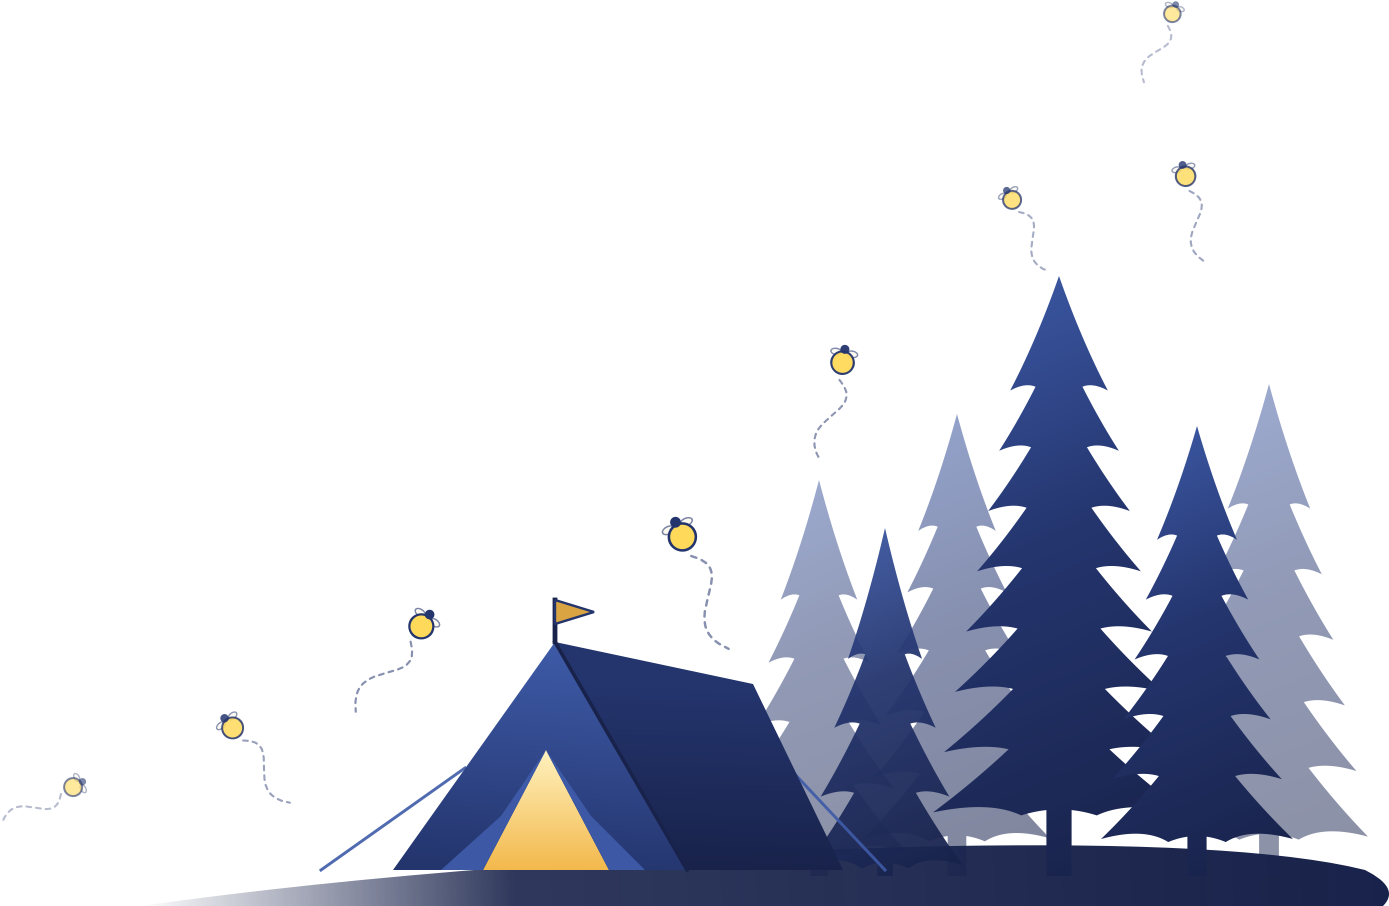
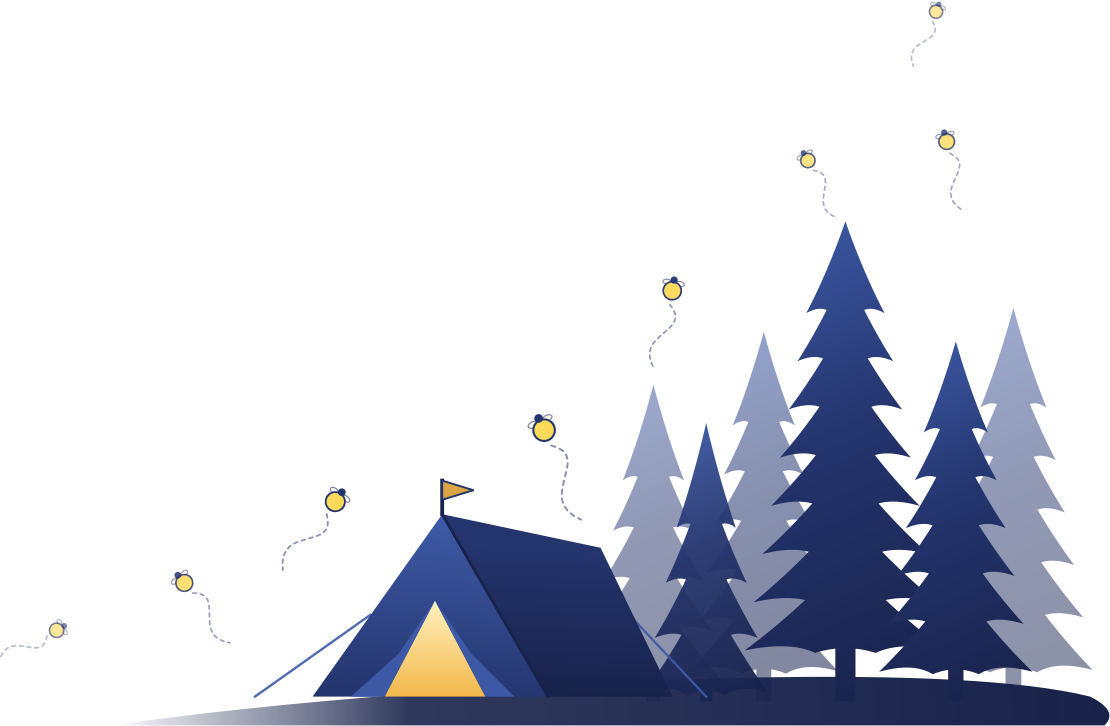
星夜蓝主题窗口点缀：右下角松林、帐篷、萤火虫整组缩小到八成

diff --git a/dstools/qt/ornaments.py b/dstools/qt/ornaments.py
@@ -101,7 +101,7 @@ _SPRITES: dict[str, tuple[Sprite, ...]] = {
         # 右上呼应：几道流星收在拐角附近、两道斜切进窗口落在按钮下方；不挡标题栏按钮
         Sprite("twilight_spray_corner.png", 1, 0, -36, 14.5, 185),
         # 右下角：松林跨在拐角上，帐篷搭在林前、门里透出暖光，萤火虫在林边飞散；左下角留白
-        Sprite("twilight_bottom.png", 1, 1, -145.5, -145, 302),
+        Sprite("twilight_bottom.png", 1, 1, -116, -116, 242),
     ),
 }
 
